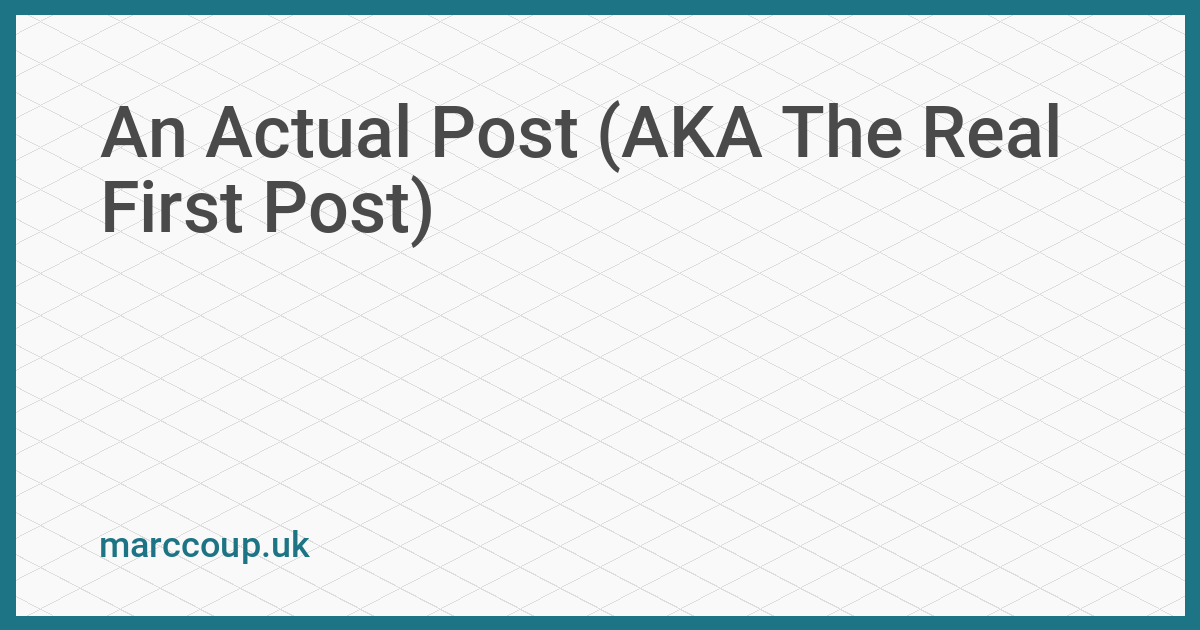
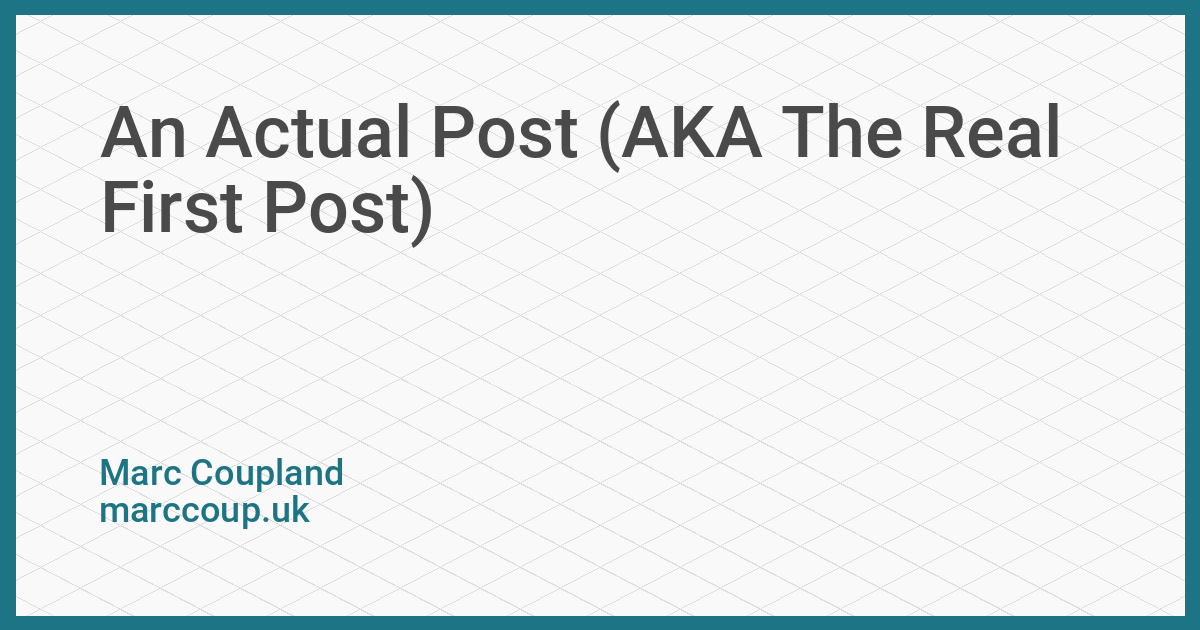
regenerate social images

Changed region(s): [[0.0617, 0.7238, 0.3083, 0.9048]]

diff --git a/docs/rewriting-this-site-in-php.html b/docs/rewriting-this-site-in-php.html
@@ -1,0 +1,58 @@
+
+<!DOCTYPE html>
+<html lang="en">
+    <head>
+        <meta charset="utf-8"/>
+
+        <title>Rewriting This Site in PHP - Marc Coupland</title>
+        <link rel="icon" href="https://marccoup.uk/favicon.png">
+        <meta name="viewport" content="width=device-width, initial-scale=1">
+
+        <link rel="stylesheet" href="https://marccoup.uk/normalize.css" type="text/css"/>
+        <link rel="stylesheet" href="https://marccoup.uk/sakura.css" type="text/css"/>
+
+            <meta property="og:type" content="article">
+    <meta property="og:site_name" content="Marc Coupland">
+    <meta property="og:url" content="https://marccoup.uk/rewriting-this-site-in-php.html">
+    <meta property="og:image" content="https://marccoup.uk/media/rewriting-this-site-in-php.png">
+    <meta property="og:title" content="Rewriting This Site in PHP">
+
+    <meta name="twitter:card" content="summary_large_image">
+    <meta name="twitter:creator" content="@_marccoup">
+    <meta name="twitter:image" content="https://marccoup.uk/media/rewriting-this-site-in-php.png">    </head>
+    <body>
+        <div>
+            <header>
+                <div><a href="https://marccoup.uk">Marc Coupland</a></div>
+                <nav>
+                    <small>
+                        <a href="https://twitter.com/_marccoup" target="_blank">twitter</a>
+                        |
+                        <a href="https://github.com/marccoup" target="_blank">github</a>
+                        |
+                        <a href="https://marccoup.uk/built-with.html">built with</a>
+                    </small>
+                </nav>
+            </header>
+            <main>
+                
+<h1>Rewriting This Site in PHP</h1>
+
+<p >
+    Published: 7th September 2022</p>
+
+
+<hr />
+<p>So I gave up on Svelte and TypeScript even though they're great. I just kept missing PHP and my familiarity with it - adding a new feature in the old setup of this site was just a pain for me, and I quickly got over the hype of using something new, and wanted to return to what I know, where I can actually implement things in a reasonable amount of time.</p>
+<p>It took me less time to build a whole static site generator in PHP for this site than it did for me to<a href="/writing-a-deploy-script-in-typescript.html">write a deploy script in TypeScript</a> in the old set up. Navigating the tooling for node felt so foreign, I missed the simplicity of a bare bones PHP script.</p>
+<h2>The Why</h2>
+<p>Well, the little intro above gives a good amount of insight into that but the primary trigger was when I wanted to implement a <a href="https://github.com/marccoup/social-image-generator">social image generator</a> to automatically generate open graph images for my blog posts. The problem was, I couldn't seem to get them to generate at the right time for the build process, and there didn't seem to be a straightforward way to set a script to run prior to everything else (other than adding it manually at the start of every item in the <code>package.json</code> script, but then you have the issue of it not actually being triggered by the Vite build process). Generating the images at the same time as the site's html files were being generated didn't work, as SvelteKit would check for images referenced in the pages, before the script generating the page content (and as such, images) was being executed and throw up an error. I did spend some time trying to figure out how the build process worked and to try and hoodwink the system into including the images at the right time, but alas I decided it would be easier to just start from scratch, and my own static site generator in PHP.</p>
+<p>I did manage to get something kind-of working, with the aforementioned strategy of running a separate script before the build step, but there was another issue. This one really frustrated me, in the SvelteKit setup I had there didn't seem to be a way to set a base URL for the site, to prepend to referenced files (or links) during a production build process. There is a base config option, but that's only allowed to be a path. Most annoyingly, the base option seems to be able to be a URL in Vite, but the SvelteKit override prevents that. The most mind-boggling was that for link tags in the &lt;head&gt; of a page, the href seemed to be getting prepended with the URL of the current session (as in it would be &quot;./file.png&quot; in the .html file, but when visiting the site it would be &quot;https://current-site.example/file.png&quot;) - attempting this in other tags seemed to have no affect, I could find no reference to how this was done in the docs, and going through the uglified js of the generated site yielded a grand total on zero results for me. There were a few other things related to this that seemed strange to me (in that I thought they should work in a different way), but for now I can't be bothered to go into all the details. Perhaps one day I'll speak to a Svelte developer and they can enlighten me.</p>
+<p>It's worth mentioning that, at this time, SvelteKit is in early development and many things may change before they hit version 1.0. I shouldn't be too harsh, as it is by their own description an unfinished project, and I have by my own admission a poor understanding of Svelte, SvelteKit, Node, and TypeScript. This is why I decided it was best to return to my roots, and get going on this rebuild in PHP. No more doing it the hard way for no reason, and writing it off as a good thing because I learned something.</p>
+<h2>The How</h2>
+<p>With PHP. Obviously.</p>
+<p><a href="https://github.com/marccoup/blog">Have a look</a></p>
+            </main>
+        </div>
+    </body>
+</html>

diff --git a/content/rewriting-this-site-in-php.md b/content/rewriting-this-site-in-php.md
@@ -1,0 +1,25 @@
+---
+title: Rewriting This Site in PHP
+date: 2022-09-07
+exclude_from_blog: true
+---
+
+---
+
+So I gave up on Svelte and TypeScript even though they're great. I just kept missing PHP and my familiarity with it - adding a new feature in the old setup of this site was just a pain for me, and I quickly got over the hype of using something new, and wanted to return to what I know, where I can actually implement things in a reasonable amount of time.
+
+It took me less time to build a whole static site generator in PHP for this site than it did for me to[write a deploy script in TypeScript](/writing-a-deploy-script-in-typescript.html) in the old set up. Navigating the tooling for node felt so foreign, I missed the simplicity of a bare bones PHP script.
+
+## The Why
+
+Well, the little intro above gives a good amount of insight into that but the primary trigger was when I wanted to implement a [social image generator](https://github.com/marccoup/social-image-generator) to automatically generate open graph images for my blog posts. The problem was, I couldn't seem to get them to generate at the right time for the build process, and there didn't seem to be a straightforward way to set a script to run prior to everything else (other than adding it manually at the start of every item in the `package.json` script, but then you have the issue of it not actually being triggered by the Vite build process). Generating the images at the same time as the site's html files were being generated didn't work, as SvelteKit would check for images referenced in the pages, before the script generating the page content (and as such, images) was being executed and throw up an error. I did spend some time trying to figure out how the build process worked and to try and hoodwink the system into including the images at the right time, but alas I decided it would be easier to just start from scratch, and my own static site generator in PHP.
+
+I did manage to get something kind-of working, with the aforementioned strategy of running a separate script before the build step, but there was another issue. This one really frustrated me, in the SvelteKit setup I had there didn't seem to be a way to set a base URL for the site, to prepend to referenced files (or links) during a production build process. There is a base config option, but that's only allowed to be a path. Most annoyingly, the base option seems to be able to be a URL in Vite, but the SvelteKit override prevents that. The most mind-boggling was that for link tags in the \<head> of a page, the href seemed to be getting prepended with the URL of the current session (as in it would be "./file.png" in the .html file, but when visiting the site it would be "https://current-site.example/file.png") - attempting this in other tags seemed to have no affect, I could find no reference to how this was done in the docs, and going through the uglified js of the generated site yielded a grand total on zero results for me. There were a few other things related to this that seemed strange to me (in that I thought they should work in a different way), but for now I can't be bothered to go into all the details. Perhaps one day I'll speak to a Svelte developer and they can enlighten me.
+
+It's worth mentioning that, at this time, SvelteKit is in early development and many things may change before they hit version 1.0. I shouldn't be too harsh, as it is by their own description an unfinished project, and I have by my own admission a poor understanding of Svelte, SvelteKit, Node, and TypeScript. This is why I decided it was best to return to my roots, and get going on this rebuild in PHP. No more doing it the hard way for no reason, and writing it off as a good thing because I learned something.
+
+## The How
+With PHP. Obviously.
+
+[Have a look](https://github.com/marccoup/blog)
+
